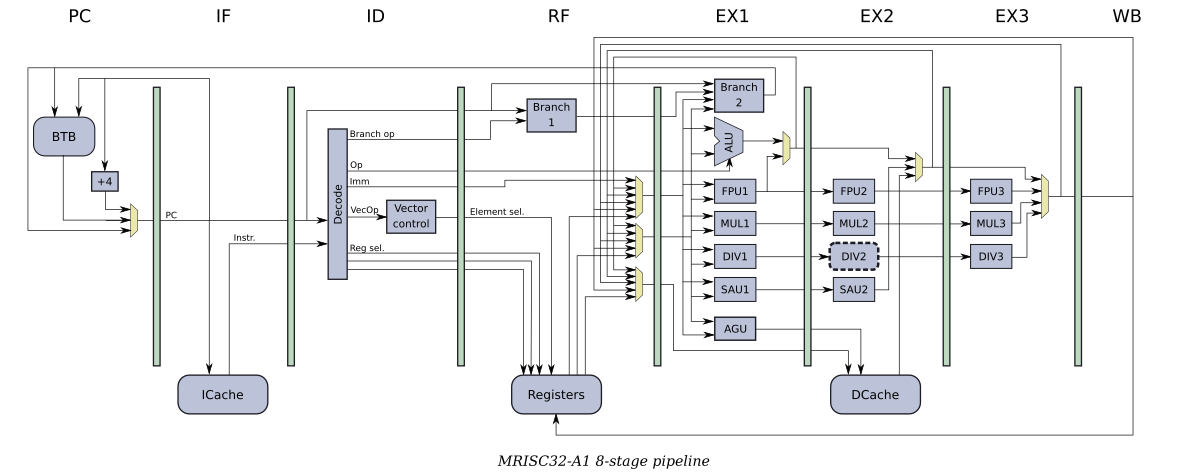
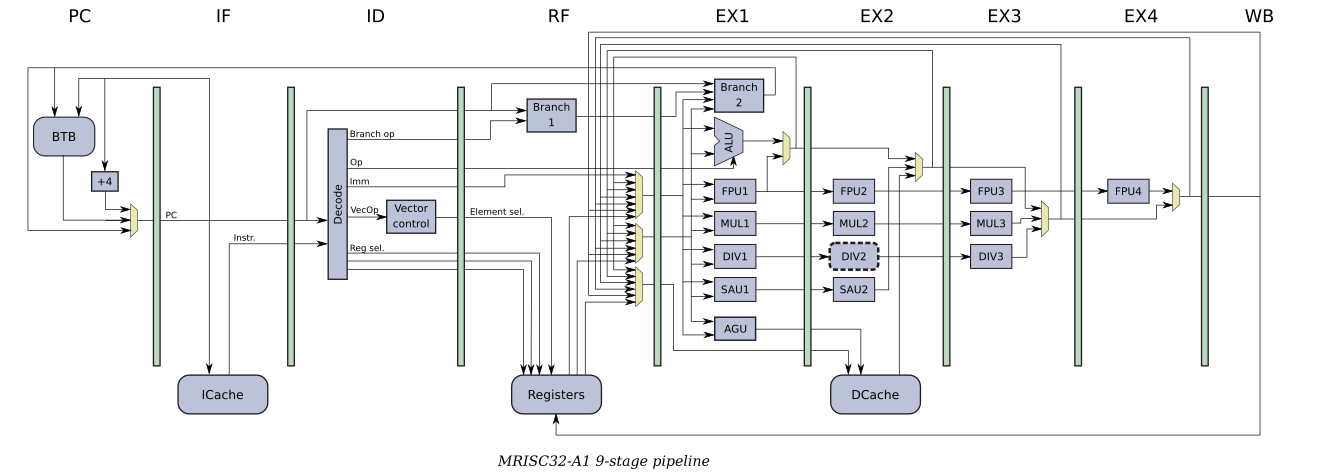
doc: Update the MRISC32-A1 diagram and docs

diff --git a/hw/mrisc32-a1/README.md b/hw/mrisc32-a1/README.md
@@ -10,7 +10,7 @@ This is a [VHDL](https://en.wikipedia.org/wiki/VHDL) implementation of a single 
 
 The CPU is still under development. So far, the following components have been implemented:
 
-* An 8-stage pipeline.
+* A 9-stage pipeline.
   - PC and branching logic.
   - Instruction fetch.
   - Decode.
@@ -34,7 +34,7 @@ The CPU is still under development. So far, the following components have been i
   - The following single-cycle FPU instructions are implemented:
     - FSEQ/FSNE/FSLT/FSLE/FSNAN
     - FMIN/FMAX
-  - The following 3-cycle FPU instructions are implemented:
+  - The following 4-cycle FPU instructions are implemented:
     - FMUL
   - Both packed and unpacked FPU operations are implemented.
 * The scalar register file.
